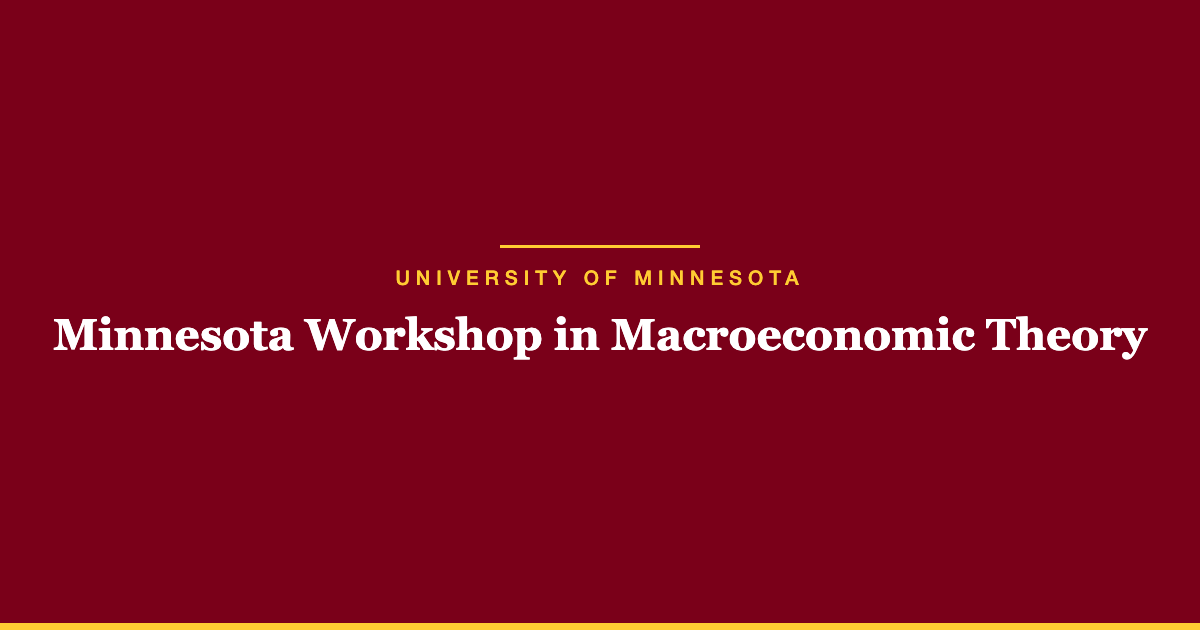
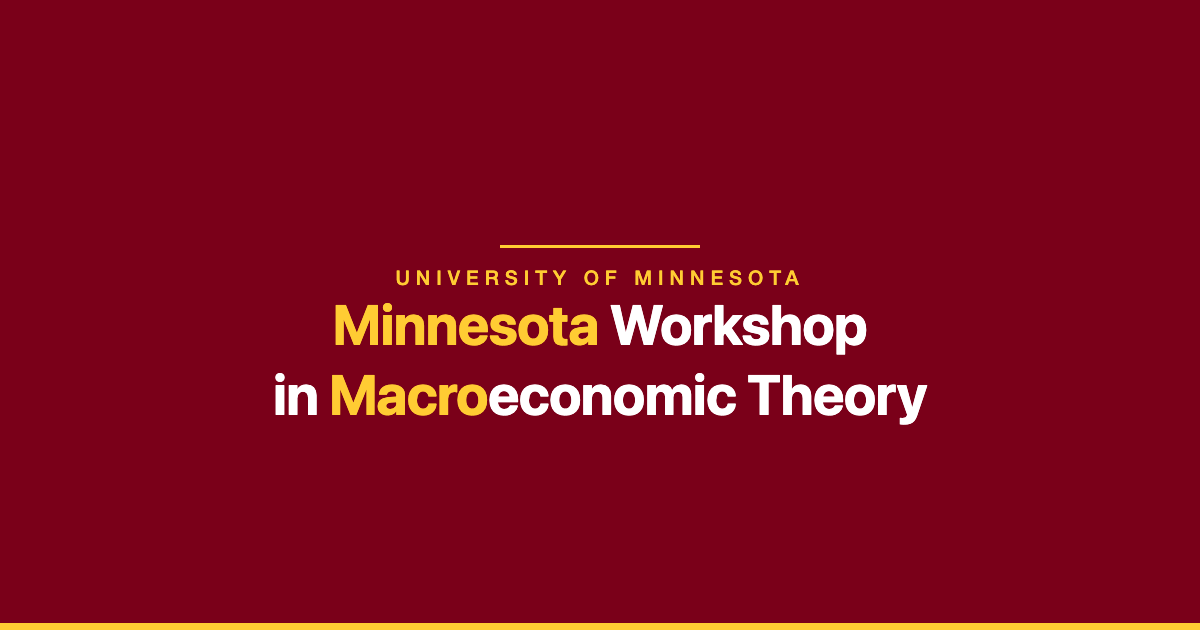
Unify site typography in sans-serif and refresh OG title treatment
Switch body font from serif to sans-serif so the whole site matches the
header. Apply per-word gold/white accents to the header title and mirror
the same treatment on the OG image (now sans-serif on two lines).

Changed region(s): [[0.0308, 0.4825, 0.9558, 0.6937]]

diff --git a/assets/css/style.css b/assets/css/style.css
@@ -15,7 +15,7 @@
 html, body {
   margin: 0;
   padding: 0;
-  font-family: var(--font-body);
+  font-family: var(--font-sans);
   color: var(--ink);
   background: var(--bg);
   line-height: 1.65;
@@ -70,13 +70,17 @@ a:hover { text-decoration: underline; }
 }
 
 .site-title {
-  color: var(--gold);
+  color: #fff;
   font-family: var(--font-sans);
   font-size: 1.6rem;
   font-weight: 700;
   letter-spacing: -0.01em;
   line-height: 1.2;
   text-decoration: none;
+}
+
+.site-title-accent {
+  color: var(--gold);
 }
 
 /* Nav */

diff --git a/_layouts/default.html b/_layouts/default.html
@@ -37,7 +37,7 @@
   <header class="site-header">
     <div class="container">
       <div class="site-identity">
-        <a class="site-title" href="{{ '/' | relative_url }}">{{ site.title }}</a>
+        <a class="site-title" href="{{ '/' | relative_url }}"><span class="site-title-accent">Minnesota</span> Workshop in <span class="site-title-accent">Macro</span>economic Theory</a>
         {% include nav.html %}
       </div>
     </div>